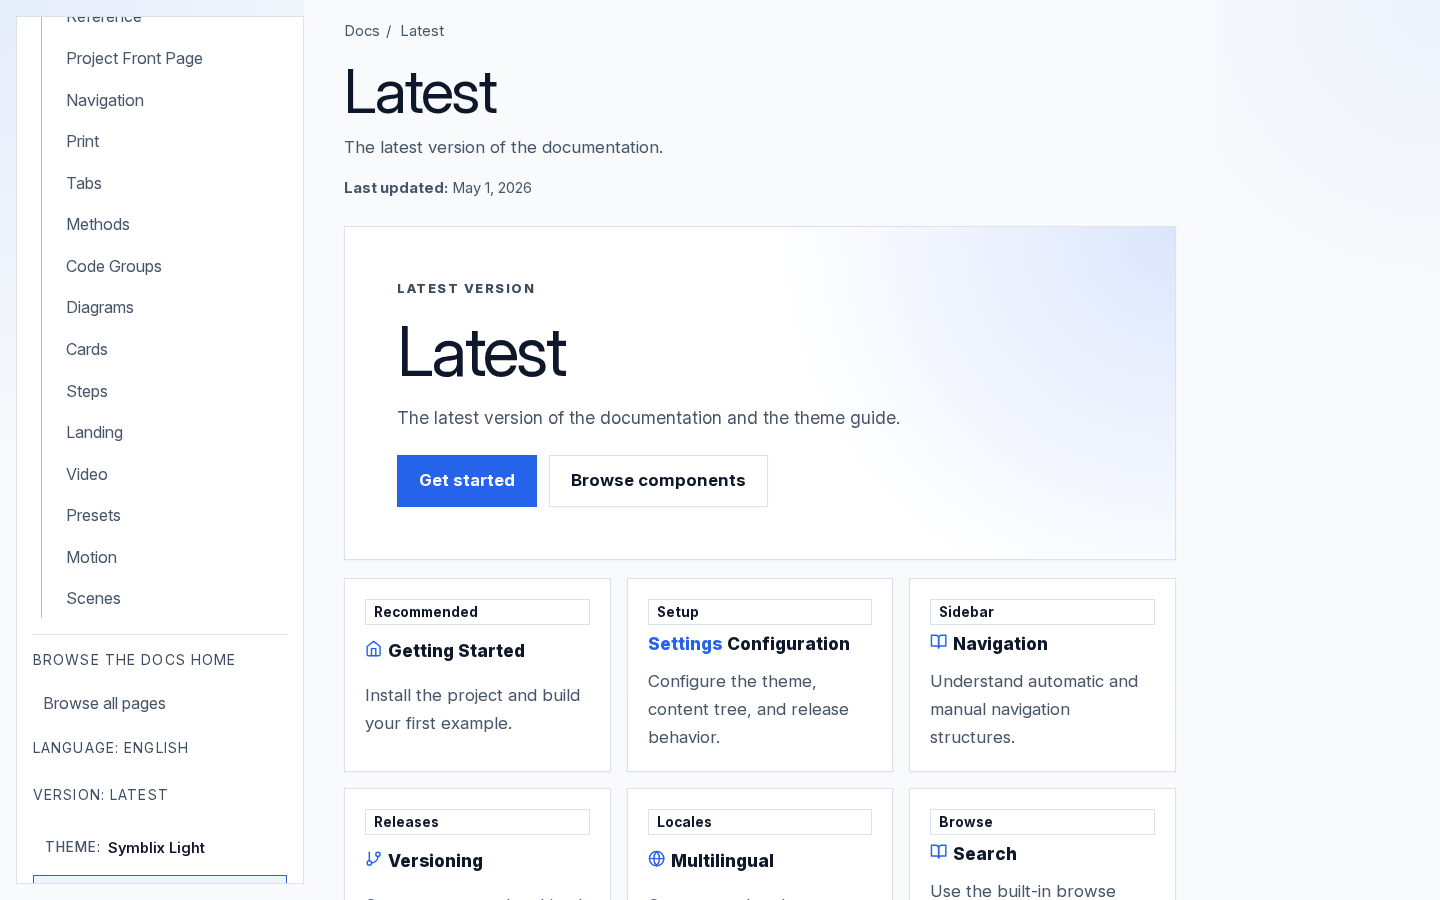
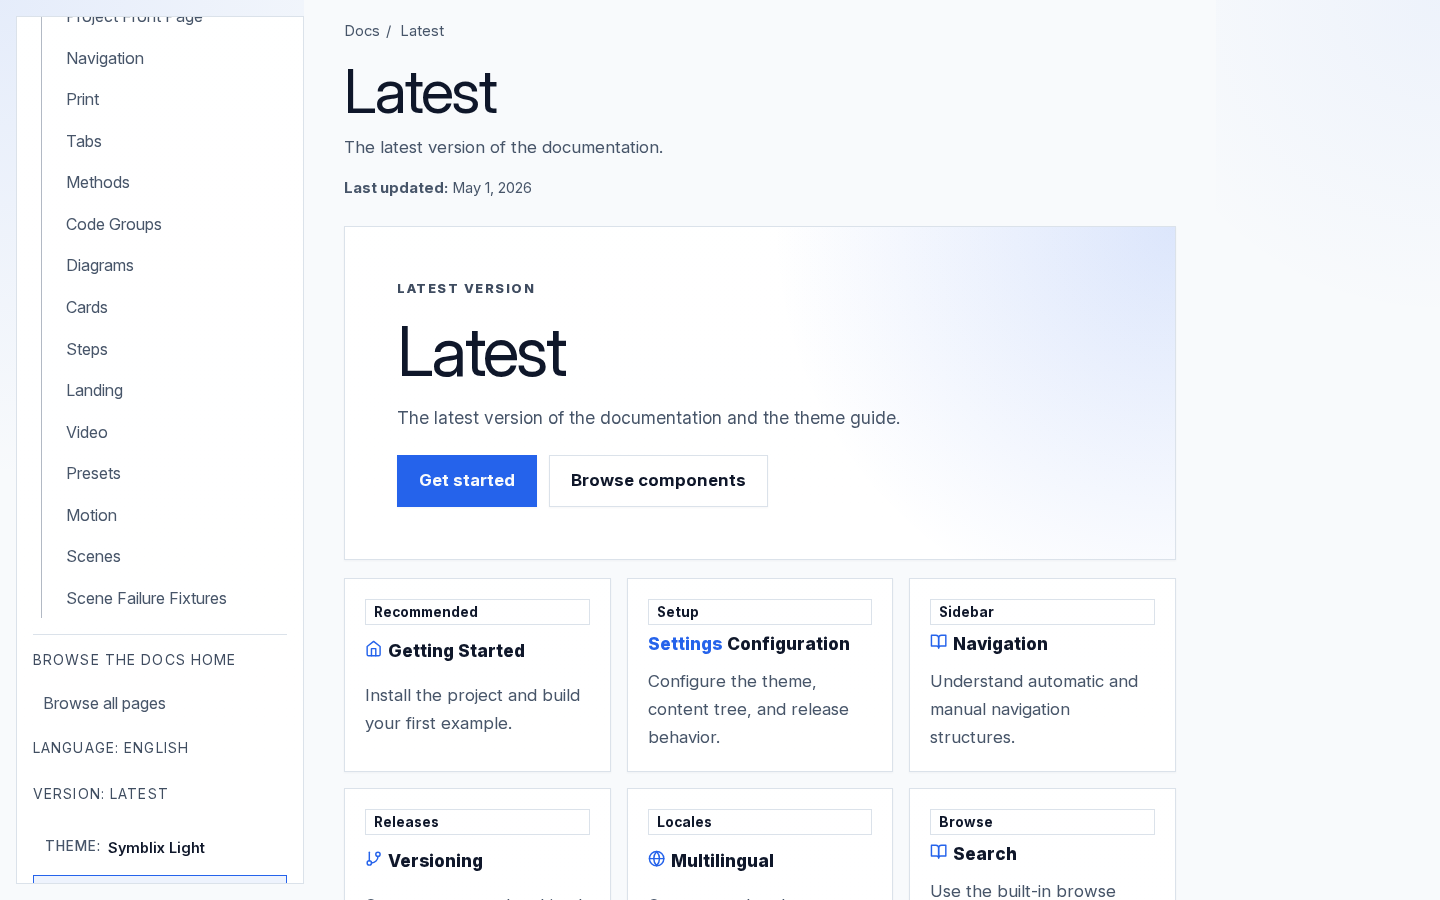
palette singleton, fixture page refactor

diff --git a/tests/scene-runtime.spec.ts b/tests/scene-runtime.spec.ts
@@ -8,7 +8,7 @@
 import { expect, test } from "@playwright/test";
 
 const SCENES_PAGE = "/en/docs/latest/components/scenes/";
-const FIXTURE_PAGE = "/en/docs/latest/components/scene-fixture/";
+const FIXTURE_PAGE = "/en/docs/latest/components/scene-failures/";
 
 test.describe("lifecycle", () => {
   test("demo scene reaches live with a sized canvas and the poster cross-fades", async ({
@@ -202,5 +202,109 @@ test.describe("registration idempotency", () => {
     const after = await page.evaluate(() => window.SymblixMotion.hosts.size);
     expect(after).toBe(before);
     expect(after).toBe(1);
+  });
+});
+
+test.describe("palette bridge", () => {
+  // Preset tokens from data/docs_presets.yaml — the bridge must deliver
+  // exactly these values as frozen snapshots.
+  const PRESET_ACCENTS = {
+    "symblix-light": { css: "#2563eb", mode: "light" },
+    "symblix-dark": { css: "#4aa3ff", mode: "dark" },
+    "ocean-dark": { css: "#38bdf8", mode: "dark" },
+    "forest-light": { css: "#166534", mode: "light" },
+    "sunset-dark": { css: "#f59e0b", mode: "dark" },
+    "solarized-light": { css: "#16678f", mode: "light" },
+    "high-contrast": { css: "#0000ff", mode: "light" },
+  };
+
+  // Chromium normalizes custom-property colors to minimal hex (#0000ff →
+  // #00f); the bridge delivers the browser's computed string, so compare
+  // both sides in expanded form.
+  function expandHex(h) {
+    const m = /^#([0-9a-f]{3})$/i.exec(h.trim());
+    if (!m) return h.trim().toLowerCase();
+    const [r, g, b] = m[1].split("");
+    return `#${r}${r}${g}${g}${b}${b}`.toLowerCase();
+  }
+
+  async function sceneLive(page) {
+    await page.goto(SCENES_PAGE);
+    await page.locator("[data-scene]").evaluate((el) => el.scrollIntoView({ block: "center" }));
+    await expect
+      .poll(() => page.locator("[data-scene]").getAttribute("data-scene-state"), {
+        timeout: 3000,
+      })
+      .toBe("live");
+  }
+
+  test("preset switch re-themes the live scene and flips the mirror", async ({ page }) => {
+    await sceneLive(page);
+
+    const initial = await page.evaluate(() => {
+      const host = [...window.SymblixMotion.hosts.values()][0];
+      return {
+        mirror: document.querySelector("[data-scene]").dataset.scenePreset,
+        accent: host.palette && host.palette.accent && host.palette.accent.css,
+      };
+    });
+    expect(initial.mirror).toBe("symblix-light");
+    expect(initial.accent).toBe("#2563eb");
+
+    await page.evaluate(() => window.SymblixTheme.setPreset("ocean-dark"));
+    await expect
+      .poll(() => page.locator("[data-scene]").getAttribute("data-scene-preset"))
+      .toBe("ocean-dark");
+
+    const after = await page.evaluate(() => {
+      const host = [...window.SymblixMotion.hosts.values()][0];
+      return {
+        accent: host.palette.accent.css,
+        mode: host.palette.mode,
+        frozen: Object.isFrozen(host.palette),
+      };
+    });
+    expect(after.accent).toBe("#38bdf8");
+    expect(after.mode).toBe("dark");
+    // The snapshot the scene received is immutable (Q6).
+    expect(after.frozen).toBe(true);
+  });
+
+  test("all seven presets deliver their accent token and mode", async ({ page }) => {
+    await sceneLive(page);
+
+    for (const [preset, expected] of Object.entries(PRESET_ACCENTS)) {
+      await page.evaluate((p) => window.SymblixTheme.setPreset(p), preset);
+      await expect
+        .poll(() => page.locator("[data-scene]").getAttribute("data-scene-preset"), {
+          timeout: 2000,
+        })
+        .toBe(preset);
+      const got = await page.evaluate(() => {
+        const host = [...window.SymblixMotion.hosts.values()][0];
+        return { css: host.palette.accent.css, mode: host.palette.mode };
+      });
+      expect(expandHex(got.css), `${preset} accent`).toBe(expandHex(expected.css));
+      expect(got.mode, `${preset} mode`).toBe(expected.mode);
+    }
+  });
+
+  test("reduced motion: mirror still tracks presets though the scene never starts", async ({
+    page,
+  }) => {
+    await page.emulateMedia({ reducedMotion: "reduce" });
+    await page.goto(SCENES_PAGE);
+    await page.waitForLoadState("load");
+
+    // The mirror is a page-wide observability signal, independent of scene
+    // lifecycle (P3 decision): the host registers, never starts, but the
+    // mount still reports the live preset truthfully.
+    await page.evaluate(() => window.SymblixTheme.setPreset("sunset-dark"));
+    await expect
+      .poll(() => page.locator("[data-scene]").getAttribute("data-scene-preset"))
+      .toBe("sunset-dark");
+
+    expect(await page.locator("[data-scene]").getAttribute("data-scene-state")).toBe("idle");
+    expect(await page.locator("[data-scene] .docs-scene__canvas").count()).toBe(0);
   });
 });

diff --git a/assets/js/motion/runtime.js b/assets/js/motion/runtime.js
@@ -15,7 +15,7 @@ import {
   logWarn,
   logInfo,
 } from "./util.js";
-import { readPalette } from "./palette.js";
+import { observePalette, readPalette } from "./palette.js";
 
 /** mount element → Host, exposed via window.SymblixMotion for tests and
     support debugging. Not a public mutation API. */
@@ -35,11 +35,24 @@ export function registerAll(three) {
     hosts.set(mount, host);
     host.register();
   });
+  observePalette(broadcastPalette);
+}
+
+/** Palette bridge (Q6, P3): one recompute per mutation batch, then every
+    host with a live instance re-tints and every registered mount mirrors
+    the preset for observability — including hosts that never started
+    (reduced motion), which keeps the mirror a truthful page-wide signal. */
+function broadcastPalette() {
+  const snapshot = readPalette();
+  hosts.forEach((host) => host.onPalette(snapshot));
 }
 
 function scheduleIdle(fn) {
   if (typeof window.requestIdleCallback === "function") {
-    window.requestIdleCallback(fn);
+    // timeout guarantees the callback fires even in throttled/hidden
+    // contexts (embedded webviews starve idle callbacks otherwise, leaving
+    // scenes stuck between idle and error).
+    window.requestIdleCallback(fn, { timeout: 2000 });
   } else {
     setTimeout(fn, 1);
   }
@@ -100,6 +113,11 @@ export class Host {
       { threshold: 0.15 },
     );
     this.io.observe(this.mount);
+
+    // Observability mirror (Q6): every registered mount reports the live
+    // preset, updated by broadcastPalette on theme changes.
+    this.mount.dataset.scenePreset =
+      document.documentElement.getAttribute("data-preset") || "";
 
     // Pointer signal: opt-in attribute AND fine pointer (Q7). The decision
     // is cached at init; a pointer attached mid-session does not re-arm.
@@ -258,6 +276,22 @@ export class Host {
     if (this.instance && typeof this.instance.onResize === "function") {
       try {
         this.instance.onResize(this.width, this.height, this.dpr);
+      } catch (error) {
+        this.fail(error);
+      }
+    }
+  }
+
+  /** Palette broadcast receiver (Q6): refresh the mirror, then hand the new
+      frozen snapshot to the scene. A throwing onPaletteChange follows the
+      same one-strike rule as frame (Q5) — it is author code in the hot path
+      of the page, and a broken re-tint must not retry forever. */
+  onPalette(snapshot) {
+    this.palette = snapshot;
+    this.mount.dataset.scenePreset = snapshot.preset;
+    if (this.instance && typeof this.instance.onPaletteChange === "function") {
+      try {
+        this.instance.onPaletteChange(snapshot);
       } catch (error) {
         this.fail(error);
       }

diff --git a/assets/js/motion/palette.js b/assets/js/motion/palette.js
@@ -65,3 +65,20 @@ export function freezePalette(snapshot) {
   }
   return Object.freeze(snapshot);
 }
+
+// Singleton observer (Q6): the preset system expresses theme changes as
+// html[data-preset] / html[data-syntax] attribute writes, so one observer
+// serves every host on the page. Attribute mutations arrive batched per
+// microtask — one recompute per callback, never per host, never per frame.
+let observer = null;
+
+/** Start watching preset/mode flips; onChange fires at most once per
+    mutation batch. Idempotent; inert where MutationObserver is missing. */
+export function observePalette(onChange) {
+  if (observer || typeof MutationObserver !== "function") return;
+  observer = new MutationObserver(() => onChange());
+  observer.observe(document.documentElement, {
+    attributes: true,
+    attributeFilter: ["data-preset", "data-syntax"],
+  });
+}

diff --git a/tests/scene.spec.ts b/tests/scene.spec.ts
@@ -10,7 +10,7 @@ import { join } from "node:path";
 
 const REPO_ROOT = join(__dirname, "..");
 const SCENES_PAGE = "/en/docs/latest/components/scenes/";
-const FIXTURE_PAGE = "/en/docs/latest/components/scene-fixture/";
+const FIXTURE_PAGE = "/en/docs/latest/components/scene-failures/";
 const DEMO_TITLE = "Orbit — the reference demo scene";
 
 test.describe("scene mount contract", () => {

diff --git a/exampleSite/content/en/docs/latest/components/scene-failures.md b/exampleSite/content/en/docs/latest/components/scene-failures.md
@@ -1,0 +1,28 @@
++++
+title = "Scene Failure Fixtures"
+description = "Deliberately broken scenes that demonstrate the motion runtime's error isolation — the browser console warnings are the system working."
+weight = 19
++++
+
+These mounts are intentionally broken. They exist to demonstrate, live, the
+degradation guarantees from [Scenes](/en/docs/latest/components/scenes/):
+a scene that misbehaves is that scene's problem — the page, its layout, and
+its sibling scenes keep working, and the poster returns.
+
+The browser console will show `[symblix-motion]` warnings on this page.
+That is the error isolation working as designed, not a bug.
+
+{{< scene src="js/scenes/__broken.js" poster="/images/scene-orbit-poster.svg" title="Broken fixture — createScene throws" >}}
+This scene's `createScene` throws immediately. The runtime marks the mount
+`error`, logs a warning, and leaves the poster standing.
+{{< /scene >}}
+
+{{< scene src="js/scenes/orbit.js" poster="/images/scene-orbit-poster.svg" title="Orbit fixture scene" >}}
+The healthy control: this mount starts normally while its broken siblings
+fail around it — one scene's failure never affects another.
+{{< /scene >}}
+
+{{< scene src="js/scenes/__broken.js" poster="/images/scene-orbit-poster.svg" title="Second broken fixture" >}}
+A second broken mount sharing the same module: each mount fails and
+recovers to its poster independently.
+{{< /scene >}}

diff --git a/exampleSite/content/en/docs/latest/components/scenes.md b/exampleSite/content/en/docs/latest/components/scenes.md
@@ -132,7 +132,9 @@ Contract rules:
 when scrolled away or the tab hides, and `error` when anything fails (a
 throwing scene, missing WebGL2, a lost GPU context that cannot recover).
 Errors are logged with the `[symblix-motion]` tag. A lost GPU context gets
-exactly one automatic re-init; a second loss is permanent.
+exactly one automatic re-init; a second loss is permanent. The
+[Scene Failure Fixtures](/en/docs/latest/components/scene-failures/) page
+demonstrates the isolation live with deliberately broken scenes.
 
 ## Degradation matrix
 
